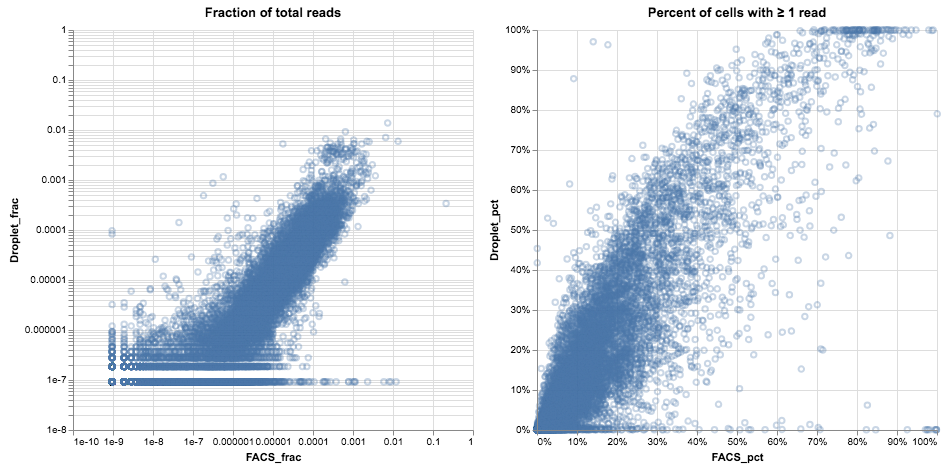
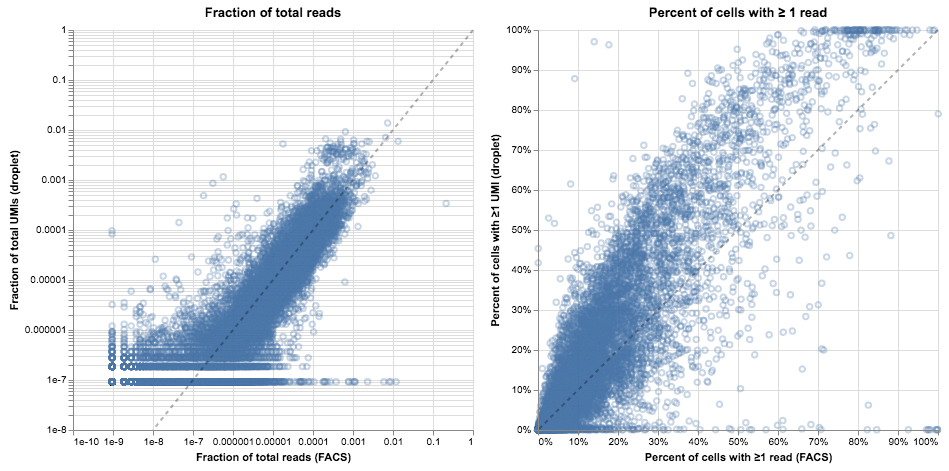
new (final???) revisions. Also got footnotes to look right.

diff --git a/_sass/_reset.scss b/_sass/_reset.scss
@@ -16,32 +16,44 @@ article, aside, canvas, details, embed,
 figure, figcaption, footer, header, hgroup,
 menu, nav, output, ruby, section, summary,
 time, mark, audio, video {
-	margin: 0;
-	padding: 0;
-	border: 0;
-	font-size: 100%;
-	font: inherit;
-	vertical-align: baseline;
+  margin: 0;
+  padding: 0;
+  border: 0;
+  font-size: 100%;
+  font: inherit;
+  vertical-align: baseline;
 }
 // HTML5 display-role reset for older browsers
 article, aside, details, figcaption, figure,
 footer, header, hgroup, menu, nav, section {
-	display: block;
+  display: block;
 }
 body {
-	line-height: 1;
+  line-height: 1;
 }
 ol, ul {
-	list-style: none;
+  list-style: none;
 }
 blockquote, q {
-	quotes: none;
+  quotes: none;
 }
 blockquote:before, blockquote:after,
 q:before, q:after {
-	content: '';
-	content: none;
+  content: '';
+  content: none;
 }
+
+// fix super and subscripts, from barryclark/jekyll-now/issues/933
+sub {
+  font-size: smaller;
+  vertical-align: sub;
+}
+
+sup {
+  font-size: smaller;
+    vertical-align: super;
+}
+
 
 // table formatting so that they show up correctly
 table {
@@ -83,9 +95,10 @@ table tr th :last-child, table tr td :last-child {
   margin-bottom: 0;
 }
 
-
 // Apply a natural box layout model to all elements
 // from: http://www.paulirish.com/2012/box-sizing-border-box-ftw/
 *, *:before, *:after {
   -moz-box-sizing: border-box; -webkit-box-sizing: border-box; box-sizing: border-box;
 }
+
+

diff --git a/_blog/The-Effect-of-PCR-on-scRNAseq.md b/_blog/The-Effect-of-PCR-on-scRNAseq.md
@@ -6,9 +6,9 @@ title: The Effect of PCR on scRNAseq
 date: 2018-10-12
 ---
 
-One interesting facet of the Tabula Muris data is the fact that we have data from the same samples using two different technologies: microfluidic droplet-based 3’-end counting using the 10x genomics platform, and FACS-based full-length transcript analysis with Smart-Seq2. Both platforms have advantages: droplets let us rapidly profile thousands of cells, but Smart-Seq2 tends to recover more genes per cell and can be sequenced to higher depth.
+In the Tabula Muris study, we performed single-cell RNA sequencing on tissues from many mice using two different technologies: microfluidic droplet-based 3’-end counting on the 10x genomics platform, and FACS-based full-length transcript analysis with Smart-Seq2. Both platforms have advantages: droplets let us easily profile thousands of cells while Smart-Seq2 recovers more genes per cell and provides full-length transcripts.
 
-Our dataset provides us with the opportunity to compare the advantages of these technologies on a relatively level playing field. For a more comprehensive discussion of this topic, you can check out the [paper](https://doi.org/10.1038/s41586-018-0590-4). In this post we'll delve a little deeper into one particular question and see what it can teach us about how the data are generated.
+This provides us with an opportunity to compare the views of gene expression provided by these two technologies on cells from the same mice. For a comprehensive discussion of this topic, you can check out the [paper](https://doi.org/10.1038/s41586-018-0590-4). In this post we'll try to get a quantitative understanding of the processes that generate single-cell sequencing data by comparing simulations to the experimental data.
 
 
 ```python
@@ -37,7 +37,7 @@ droplet_metadata = pd.read_csv("../../data/TM_droplet_metadata.csv", index_col=0
 droplet_data = ad.read_h5ad("../../data/TM_droplet_mat.h5ad")
 ```
 
-The broad question is whether these two technologies are giving us the same view of gene expression. It's not obvious how to answer that question, but let's start by looking at the cells from one organ sequenced by both platforms, and compare the gene levels we observe. For the rest of this post we're going to look at the thymus.
+Let's start by looking at the cells from one organ sequenced on both platforms, and compare the gene levels we observe. For the rest of this post we're going to look at the thymus.
 
 
 ```python
@@ -50,7 +50,7 @@ facs_thymus.X = np.asarray(facs_thymus.X.todense())
 droplet_thymus.X = np.asarray(droplet_thymus.X.todense())
 ```
 
-Below we'll plot two different visualizations of these datasets. On the left, we'll plot the relative gene counts of each method&mdash;for each gene, is the observed level similar between the FACS and droplet datasets? On the right, for each gene we'll plot the percent of cells with ≥1 read, reflecting the idea that while expression _level_ might not be consistent, we hope to see the same genes present in a similar fraction of cells in both of these populations.
+Below we plot two different visualizations of gene expression. On the left, we compare the "bulk" expression levels; for each gene, the x-axis represents the fraction of counts mapping to that gene in FACS and the y-axis represents the fraction in droplets. On the right, we compare the percent of cells with ≥1 read, reflecting the idea that while expression _level_ might be noisy due to differences in chemistry, the same genes should be present in a similar fraction of cells in both of these samples.
 
 
 ```python
@@ -63,6 +63,12 @@ thymus_dataframe = pd.DataFrame(
     }
 )
 
+xy_line = (
+    alt.Chart(pd.DataFrame({"x": [1e-8, 1], "y": [1e-8, 1]}))
+    .mark_line(opacity=0.3, color="black", strokeDash=[4])
+    .encode(x="x", y="y")
+)
+
 alt.hconcat(
     alt.Chart(
         thymus_dataframe, title="Fraction of total reads", width=400, height=400
@@ -73,13 +79,15 @@ alt.hconcat(
             "FACS_frac",
             type="quantitative",
             scale=alt.Scale(type="log", domain=(1e-10, 1)),
+            axis=alt.Axis(title="Fraction of total reads (FACS)"),
         ),
         y=alt.Y(
             "Droplet_frac",
             type="quantitative",
             scale=alt.Scale(type="log", domain=(1e-8, 1)),
+            axis=alt.Axis(title="Fraction of total UMIs (droplet)"),
         ),
-    ),
+    ) + xy_line,
     alt.Chart(
         thymus_dataframe, title="Percent of cells with ≥ 1 read", width=400, height=400
     )
@@ -88,16 +96,16 @@ alt.hconcat(
         x=alt.X(
             "FACS_pct",
             type="quantitative",
-            axis=alt.Axis(format="%"),
+            axis=alt.Axis(format="%", title="Percent of cells with ≥1 read (FACS)"),
             scale=alt.Scale(domain=(0, 1)),
         ),
         y=alt.Y(
             "Droplet_pct",
             type="quantitative",
-            axis=alt.Axis(format="%"),
+            axis=alt.Axis(format="%", title="Percent of cells with ≥1 UMI (droplet)"),
             scale=alt.Scale(domain=(0, 1)),
         ),
-    ),
+    ) + xy_line,
 )
 ```
 
@@ -106,7 +114,7 @@ alt.hconcat(
 ![png](/images/The-Effect-of-PCR-on-scRNAseq_files/The-Effect-of-PCR-on-scRNAseq_0.png)
 
 
-It's tempting to stare at these plots and start to draw conclusions about the relative merits of droplet- and FACS-based methods. Indeed, in the [initial draft](https://www.biorxiv.org/content/early/2017/12/20/237446) we devoted some time to these types of plots, but they are difficult to interpret. On the left, it seems like the gene levels are mostly in agreement but there are many exceptions. On the right, the bulk of the genes are slightly above the diagonal, but many genes are on the x axis. That means they were almost never observed in the droplet data but often seen in the FACS data.
+It's tempting to stare at these plots and start to draw conclusions about the relative merits of droplet- and FACS-based methods. Indeed, we did so in the [initial draft](https://www.biorxiv.org/content/early/2017/12/20/237446), but interpretation proved difficult. On the left, it seems like the gene levels are mostly in agreement (spread around the $y = x$ line) but there are many exceptions, with genes present at the 1% level in FACS that are entirely absent in droplets. On the right, the bulk of the genes are slightly above the diagonal (present in a larger fraction of cells in droplets than in FACS), but many genes are on the x-axis. That means they were almost never observed in the droplet data but often seen in the FACS data. Confusingly, in other cell types the majority of genes are _below_ the diagonal, indicating they are more often found in the FACS data.
 
 It seems likely that differences in methodology are confounding our attempt to compare methods. To illustrate that point, we'll switch around the axes for these plots, and for each method we'll plot the per-gene fraction of total reads versus the percent of cells with ≥1 read.
 
@@ -154,11 +162,11 @@ alt.hconcat(
 ![png](/images/The-Effect-of-PCR-on-scRNAseq_files/The-Effect-of-PCR-on-scRNAseq_1.png)
 
 
-The difference between these plots is pretty striking. In the droplet data on the left, the relationship between expression and dropout looks like something we can model: genes that are highly expressed are more likely to be observed in every cell, while low-expression genes are seen less often. This relationship is what we would expect from a Poisson distribution, with the addition of noise due to variation in library depth and expression variation. If we model these sources of variation as a [gamma distribution](https://en.wikipedia.org/wiki/Gamma_distribution) then the resulting model for observed counts is a [negative binomial](http://www.nxn.se/valent/2018/1/30/count-depth-variation-makes-poisson-scrna-seq-data-negative-binomial). Deviations from that model are a sign of heterogeneity in gene expression, which suggests a method for suggesting variable genes for analysis. Tallulah Andrews and Martin Hemberg describe such a method in [their paper](https://www.biorxiv.org/content/early/2018/05/17/065094) on bioR$\chi$iv.
+The difference between these plots is pretty striking. In the droplet data on the left, the relationship between expression and dropout looks like something we can model: genes that are highly expressed are more likely to be observed in every cell, while low-expression genes are seen less often. This relationship is what we would expect from a [Poisson distribution](https://en.wikipedia.org/wiki/Poisson_distribution), with a little additional noise due to variation in library depth and gene expression. If we model these sources of variation as a [gamma distribution](https://en.wikipedia.org/wiki/Gamma_distribution) then the resulting model for observed counts is a [negative binomial](http://www.nxn.se/valent/2018/1/30/count-depth-variation-makes-poisson-scrna-seq-data-negative-binomial). Deviations from that model are a sign of heterogeneity in gene expression&mdash;perhaps indicating a mixture of cell types or cell states. This suggests a method for finding variable genes; Tallulah Andrews and Martin Hemberg describe such a method in [their paper](https://www.biorxiv.org/content/early/2018/05/17/065094) on bioR$\chi$iv.
 
-The second plot is more confusing. The same trend is apparent but the points are much more spread out and cloudier compared to the data from the droplets. We see a faint echo of the droplet curve on the left side of the plot, but most of the points are further to the right. If we assumed a negative binomial for these data we would identify a huge number of genes as variable, but we know this population of cells is relatively homogenous (probably as homogenous as the cells in the droplet data).
+The second plot is more confusing. The same trend is apparent but the points are much more spread out and cloudier compared to the data from droplets. We see a faint echo of the droplet curve on the left side of the plot, but most of the points are further to the right. If we assumed a negative binomial for these data we would identify a huge number of genes as variable, but we know this population of cells is relatively homogenous (probably as homogenous as the cells in the droplet data).
 
-There must be an additional source of noise, and the obvious suspect is the [PCR](https://en.wikipedia.org/wiki/Polymerase_chain_reaction) amplification during library preparation. The droplet data has unique molecular identifiers (UMIs) that allow us to remove this noise, while the FACS data does not, and the result is what we see. One way to test this idea is to model how we think the data are generated and see if we can reproduce these results.
+There must be an additional source of noise, and the obvious suspect is the [PCR](https://en.wikipedia.org/wiki/Polymerase_chain_reaction) amplification during library preparation. The droplet data has unique molecular identifiers (UMIs) that removed this noise, while the FACS data does not, and the result is what we see. One way to test this idea is to model how we think the data are generated and see if we can reproduce these trends.
 
 ## What are we measuring? scRNA-seq as a sampling process
 
@@ -166,22 +174,21 @@ We're going to build a [generative model](https://en.wikipedia.org/wiki/Generati
 
 ![svg](/images/The-Effect-of-PCR-on-scRNAseq_files/scrna_sampling.svg)
 
- 1. Cells are **isolated** into wells or droplets
- 2. They are lysed, individual mRNA molecules are biochemically **captured** and reverse-transcribed to cDNA
-     - in the droplet method, this is where UMIs are introduced
- 3. The cDNA is **PCR amplified, fragmented, and amplified again** as part of library preparation
+ 1. Cells are **isolated** into wells or droplets.
+ 2. They are lysed, and individual mRNA molecules are biochemically **captured** and reverse-transcribed to cDNA. In the droplet method, this is where UMIs are introduced.
+ 3. The cDNA is **PCR amplified, fragmented, and amplified again** as part of library preparation.
  4. The amplified library is **sequenced**, demultiplexed, aligned, etc.
 
 We can think of each of the bolded portions as a sampling step. In step 1, the cells are sampled from a population that contains an unknown amount of diversity, and our collection methods may have different biases at this step. In step 2, individual mRNA molecules are captured with some efficiency that is dependent on the biochemical method and potentially the cell state or even the gene sequence itself. Step 3 can be broken down into many *different* sampling steps, one for each round of PCR, as individual molecules are amplified at different rates of efficiency.
 
-All of these sampling steps are important to think about for experimental design and interpretation. Here we are going to keep steps 1, 2, and 4 constant, by assuming a homogenous cell population, random capture and random sequencing: we will only examine the effect of step 3. Specifically: how does a potentially-biased PCR process affect the final gene count? We'll start by simulating some data.
+All of these sampling steps are important to think about for experimental design and interpretation. Here we are going to keep steps 1, 2, and 4 constant, by assuming a homogenous cell population, unbiased random capture, and unbiased sequencing: we will only examine the effect of step 3. Specifically: how does a potentially-biased PCR process affect the final gene count? We'll start by simulating some data.
 
- 1. We have 20,000 genes and 2,000 cells
- 2. Genes are expressed according to a log-gamma distribution
-     - Formally: $g_i \sim e^{\Gamma(k=2,\ \theta=1)}$ where $k, \theta$ were chosen by eye to mimic realistic data
-     - There isn't a strong basis for this distribution except that log-normal looked to be skewed a bit high
- 3. Every cell has the same expression state
- 4. We'll sample 5,500 UMIs from every cell using a multinomial distribution
+ 1. We have 20,000 genes and 2,000 cells.
+ 2. Genes are expressed according to a log-gamma distribution.
+     - Formally: $g_i \sim e^{\Gamma(k=4,\ \theta=1)}$ where $k, \theta$ were chosen by eye to mimic realistic data.
+     - There isn't a strong basis for this distribution except that log-normal looked to be skewed a bit high.
+ 3. Every cell has the same expression state.
+ 4. We sample 5,500 UMIs from every cell using a multinomial distribution.
      - Technically the [multivariate hypergeometric](https://en.wikipedia.org/wiki/Hypergeometric_distribution#Multivariate_hypergeometric_distribution) is the right distribution here, but it is difficult to implement efficiently and the multinomial has almost identical behavior at this scale.
 
 
@@ -213,14 +220,7 @@ plot_expression_v_percent(cell_gene_umis, title="Basic model")
 
 ![png](/images/The-Effect-of-PCR-on-scRNAseq_files/The-Effect-of-PCR-on-scRNAseq_2.png)
 
-
-This looks promising! When we consider a specific gene, our sampling process is a [binomial distribution](https://en.wikipedia.org/wiki/Binomial_distribution) $X \sim B(n, p)$ with $n$ equal to the number of reads from that cell and $p$ equal to the relative abundance of that gene in the cell. When $n$ is large and $p$ is small, a [Poisson distribution](https://en.wikipedia.org/wiki/Poisson_distribution) is a good approximation for this process, which is why most people refer to scRNA gene counts (assuming no variation between cells) as being [Poisson-distributed](http://www.nxn.se/valent/2018/1/30/count-depth-variation-makes-poisson-scrna-seq-data-negative-binomial). Seeing a particular gene $g$ in a cell is based on the depth of the library and the gene's relative expression, and the probability of seeing $k$ reads is given by:
-
-$$ P_g(k\textrm{ reads}) = \frac{\lambda^k e^{-\lambda}}{k!}\hspace{40pt}\lambda = \frac{[\textrm{expression of }g]}{\textrm{[total expression]}} \times \textrm{[number of reads]} $$
-
-When we are counting the prevalence of missing genes, this simplifies to $ P_g(k=0) = e^{-\lambda}$ and the plot above shows the complement, $ P_g(k>0) = 1 - e^{-\lambda}$
-
-The plot above looks very similar to our droplet data, but it's much cleaner. There are two reasons for that: one is that we simulated identical cells, and the second is that we simulated identical library sizes. We can vary each of these assumptions in turn and see what happens to our data.
+The plot above looks very similar to our droplet data, but it's much cleaner[^1]. There are two reasons for that: one is that we simulated identical cells, and the second is that we simulated identical library sizes. We can vary each of these assumptions in turn and see what happens to our data.
 
 
 ```python
@@ -272,7 +272,7 @@ alt.hconcat(*cs)
 ![png](/images/The-Effect-of-PCR-on-scRNAseq_files/The-Effect-of-PCR-on-scRNAseq_3.png)
 
 
-These plots are useful for gaining an intuition about how noise in our data affects the result. There is a clear difference between these two effects: noise in the size of the library makes the Poisson-derived curve slightly "fuzzier", but it also raises the bottom end of the distribution because the cells with high coverage are able to recover rare genes. Noise in the gene expression lowers the top line and spreads out the distribution, because genes are less evenly distributed and so they are found in fewer cells than would be expected based on average expression. In reality we tend to see a combination of these two effects. For this post we'll just eyeball some parameters that look like the droplet data.
+These plots are useful for gaining an intuition about how noise in the generative process affects the data. There is a clear difference between these two effects: noise in the size of the library makes the Poisson-derived curve slightly "fuzzier", but it also raises the bottom end of the distribution because the cells with high coverage are able to recover rare genes. Noise in the gene expression lowers the top line and spreads out the distribution, because genes are less evenly distributed and so they are found in fewer cells than would be expected based on average expression. In reality we tend to see a combination of these two effects. For this post we'll just eyeball some parameters that look like the droplet data.
 
 
 ```python
@@ -302,18 +302,16 @@ plot_expression_v_percent(noisy_umis, title=f"Library, Expression Noise: 1.5")
 ![png](/images/The-Effect-of-PCR-on-scRNAseq_files/The-Effect-of-PCR-on-scRNAseq_4.png)
 
 
-This plot looks okay. It doesn't look exactly like the thymus data, but our model is still pretty simple in comparison to real tissue. In particular, we are explicitly simulating a single population, while the real data contains at least three cell types and possibly more that we don't have the resolution to identify.
+This plot doesn't look exactly like the thymus data, but our model is still pretty simple in comparison to real tissue. In particular, we are explicitly simulating a single population, while the real data contains at least three cell types and possibly more that we don't have the resolution to identify.
 
 ### Simulating PCR
 
-Our hypothesis is that PCR amplification bias can explain the different between the droplet and FACS plots we saw earlier. PCR amplifies the observed level of each gene, throwing off our estimation of the expected dropout rate. Furthermore, each gene goes through PCR with a different level of efficiency, which adds noise to the measured gene counts.
+Our hypothesis is that PCR amplification bias can explain the difference between the droplet and FACS plots we saw earlier. PCR amplifies the observed level of each gene, throwing off our estimation of the expected dropout rate. Furthermore, each gene goes through PCR with a different level of efficiency, which adds noise to the measured gene counts.
 
-Let's build a model for this process. We can use a [beta distribution](https://en.wikipedia.org/wiki/Beta_distribution) to generate different levels of PCR efficiency on a per-gene basis. Then we represent the PCR amplication as a series of probabilistic doublings, with each gene increasing in abundance according to the number of existing copies and its PCR efficiency rate. If $PCR_{i}(\ j\ )$ is the number of reads for gene $i$ after PCR round $j$, and gene $i$ has a PCR efficency $b_i \sim \beta$, then
+Let's build a model for this process. We can use a [beta distribution](https://en.wikipedia.org/wiki/Beta_distribution) to generate different levels of PCR efficiency for each gene. Then we represent the PCR amplification as a series of probabilistic doublings, with each gene increasing in abundance according to the number of existing copies and its PCR efficiency rate. If $PCR_{i}(j)$ is the number of reads for gene $i$ after PCR round $j$, and gene $i$ has a PCR efficency $b_i \sim \beta$, then
  
-$$ PCR_{i}(\ j+1\ ) = PCR_{i}(\ j\ ) + \mathrm{Binom}(PCR_{i}(\ j\ ), b_i)$$
 
-That is: in each round of PCR, each of the existing reads is copied with a probability that is specific to the gene it came from.
-
+$$ PCR_{i}(j+1) = PCR_{i}(j) + \mathrm{Binom}(PCR_{i}(j), b_i).$$
 
 ```python
 # PCR noise model: every fragment has an affinity for PCR, and every round we do a ~binomial doubling
@@ -355,7 +353,7 @@ alt.hconcat(
 
 This is getting closer to the FACS plot above&mdash;using a distribution of PCR efficiencies causes the read data to spread across a few orders of magnitude. As we go through 13 rounds of PCR the high efficiency genes shift to the right while the lower ones lag behind. The right edge of the curve is fairly sharp, as nothing can replicate more efficiently than once per round.
 
-There is one piece missing from this plot, however, which is the "shadow" of the UMI curve that we could see on the left side. Our intuition from the model so far is that these points are not being amplified very much at all. One way to get more low-efficiency genes would be to use a wider beta distribution (with more density near zero), but it actually looks like there is a small subpopulation with very low efficiency that is separate from the rest. We can model this with a mixture of two beta distributions, although it's unclear why that should be the case. Those of you with more experience troubleshooting PCR can tell us if this seems like a reasonable distribution of efficiency across random DNA sequences.
+There is one piece missing from this plot, however, which is the "shadow" of the UMI curve that we could see on the left side. Our intuition from the model so far is that these points are not being amplified very much at all. One way to get more low-efficiency genes would be to use a wider beta distribution (with more density near zero), but it actually looks like there is a small subpopulation with very low efficiency that is separate from the rest. We can model this with a mixture of two beta distributions, although it's unclear why that should be the case. Those of you with more experience troubleshooting PCR can tell us if this seems like a reasonable distribution of efficiency across different DNA sequences.
 
 
 ```python
@@ -381,7 +379,7 @@ alt.hconcat(
 
 This looks pretty good, but when we compare it to our data it's still not quite right. The bimodal distribution gave us a subpopulation of points on the left side of the plot, but it didn't give us the relationship between expression and PCR efficiency that we can see in the FACS data. We could reproduce that relationship in a hacky way, by setting a random subset of low-expression genes to have low PCR efficiency. But that wouldn't be very satisfying&mdash;there's no reason that the PCR reaction should care about the expression level of the genes.
 
-However, there's another factor that we haven't considered yet. When we do scRNA-seq we aren't sequencing complete gene transcripts, we're sequencing _fragments_. The number of different fragments we see from a gene will depend on its expression level, because a highly-expressed gene will be sampled more often and so we are more likely to see multiple different fragments. A gene with low expression could potentially be represented by a single fragment, and if that fragment has poor PCR efficiency, it would remain on the UMI curve, leaving us the "shadow" that we expected. We can try this out by changing our model to work on gene fragments rather than genes. Most of it is the same, but in the beginning we add a step of generating a random number of fragments for each gene (Poisson distributed) and later we assign each _fragment_ its own PCR efficiency. We'll show the results of both the UMI distribution and the PCR-amplified version.
+However, there's another factor that we haven't considered yet. When we do scRNA-seq we aren't sequencing complete gene transcripts, we're sequencing _fragments_. The number of distinct fragments we see from a gene will depend on its expression level, because a highly-expressed gene will be sampled more often. A single fragment might be all that we capture from a gene with low expression. If that fragment has poor PCR efficiency, that gene would remain on the UMI curve, part of the "shadow" that we expect. We can try this out by changing our model to work on gene fragments rather than genes. We add a step at the beginning, generating a random number of fragments for each gene (Poisson distributed) and assigning each _fragment_ its own PCR efficiency. We'll show the results of both the UMI distribution and the PCR-amplified version.
 
 
 ```python
@@ -433,7 +431,7 @@ alt.hconcat(
 ![png](/images/The-Effect-of-PCR-on-scRNAseq_files/The-Effect-of-PCR-on-scRNAseq_7.png)
 
 
-Now that's more like it! We have most of the characteristics of the plot we generated from real data, up to some biological noise and parameter tweaks (in particular I'm still unsatistified with the distribution of gene expression levels). The addition of gene fragments didn't change how our model behaves on UMI data, but it allowed us to reproduce the "shadow" of the UMI curve for low-expression genes.
+Now that's more like it! We have most of the characteristics of the plot we generated from real data, up to some biological noise and parameter tweaks. The addition of gene fragments didn't change how our model behaves on UMI data, but it allowed us to reproduce the "shadow" of the UMI curve for low-expression genes.
 
 To close the loop on this post, we'll look at what our droplet data would be if we didn't collapse reads via the UMIs. To do this, we needed to parse the BAM file that is output by CellRanger. For those following along at home, be warned that it takes a _long_ time to read through the entire BAM file.
 
@@ -442,7 +440,7 @@ To close the loop on this post, we'll look at what our droplet data would be if 
 # we'll need the pysam library to read the bam file
 import pysam
 
-# # dictionaries that let us index into the read matrix by barcode and gene
+# dictionaries that let us index into the read matrix by barcode and gene
 bc_i = {
     bc: i
     for i, bc in enumerate(
@@ -572,17 +570,17 @@ print("\t".join(f"{c:>19}" for c in (n_genes, low_in_facs, low_in_droplets,
 |   23433 |        3036 |             629 |          158 |            2.01e-17 |
 
 
-While there appears to be significant overlap between the two sets, I wouldn't say it's a slam dunk based on these samples alone. Analysis of more of our data might help identify a set of genes that are consistently poorly-amplified.
+While there appears to be significant overlap between the two sets, I wouldn't say that we have identified a consistent set of under-amplified genes. Analysis of more tissues and cell types might clarify matters.
 
 ### Conclusions
 
 In the end we've built a relatively simple model of PCR and sampling, and it produces data that look qualitatively like the data we really observed. One open question is whether the distribution of PCR efficiencies is realistic. A bimodal distribution _might_ reflect that some proportion of cDNA sequences form dimers or otherwise impede PCR, but a unimodal distribution is more intuitive. It's possible that we're missing yet another mechanism in this process that would naturally lead to the behavior we're seeing.
 
-While this blog post is mostly about a particularly confusing plot and trying to understand its behavior, it was not a purely theoretical exercise. There are a few ideas that arise from this model of our data.
+While this blog post is mostly about trying to understand a particularly confusing plot, it was not a purely theoretical exercise. There are a few ideas that arise from this model of our data.
 
- 1. Looking at these plots and how they are affected by noise has emphasized the importance of UMIs for getting a good estimate of gene expression. By having a strong statistical model for how the data are generated, we can more easily identify genes with heterogeneous expression within a cluster. This level of detail is much more difficult to resolve when read counts are affected by amplification noise.
- 2. We spent a fair amount of time trying to recreate the shadow on the left side of the FACS plot, but we haven't discussed the implications of that shadow. According to our model, those are genes that have very low PCR efficiency and may not have been amplified at all during the second PCR step. Nevertheless, we are recovering those reads from the sequencer at a rate consistent with their expression. This suggests that we might be able to optimize our protocols by doing fewer rounds of library amplification. That would allow us to improve our sequencing throughput, either by sequencing more cells at once or by sequencing the same number of cells much more deeply.
- 3. When we are confident that we have a homogenous cluster of cells, the plots above show us a natural method of imputing gene expression values when they are missing, even in the face of PCR noise. The proportion of cells with ≥1 read is a good predictor of the number of UMIs in each cell, and this holds true even when the reads themselves are subjected to a biased PCR process. The points in the second plot have shifted to the right but not up or down, so it's possible the effect of amplification can be removed by fitting a curve to the top left of the graph. However, when we are not confident of a homogenous population this becomes much riskier, and it is harder to have that confidence in the face of noisy reads.
+ 1. **UMIs are really useful.** Looking at these plots and how they are affected by noise has emphasized the importance of UMIs for getting a good estimate of gene expression. By having a strong statistical model for how the data are generated, we can more easily identify genes with heterogeneous expression within a cluster. This level of detail is much more difficult to resolve when read counts are affected by amplification noise.
+ 2. **Too much PCR is likely harmful.** We spent a fair amount of time trying to recreate the shadow on the left side of the FACS plot, but we haven't discussed the implications of that shadow. According to our model, those are genes that have very low PCR efficiency and may not have been amplified at all during the second PCR step. Nevertheless, we are recovering those reads from the sequencer at a rate consistent with their expression. This suggests that we might be able to optimize our protocols by doing fewer rounds of library amplification. That would allow us to improve our sequencing throughput, either by sequencing more cells at once or by sequencing the same number of cells much more deeply.
+ 3. **We should be able to fill in our matrix.** When we are confident that we have a homogenous cluster of cells, the plots above show us a natural method of imputing gene expression values when they are missing, even in the face of PCR noise. The proportion of cells with ≥1 read is a good predictor of the number of UMIs in each cell, and this holds true even when the reads themselves are subjected to a biased PCR process. The points in the second plot have shifted to the right but not up or down, so it's possible the effect of amplification can be removed by fitting a curve to the top left of the graph. However, when we are not confident of a homogenous population this becomes much riskier, and it is harder to have that confidence in the face of noisy reads.
 
 ### Related Work
 
@@ -591,3 +589,13 @@ While this blog post is mostly about a particularly confusing plot and trying to
  * [Kebschull and Zador](https://www.ncbi.nlm.nih.gov/pmc/articles/PMC4666380/) is a deep dive into the many factors that can cause noise in PCR amplification.
  * [Grün et al.](https://www.nature.com/articles/nmeth.2930) and [Islam et al.](https://www.nature.com/articles/nmeth.2772) are two of many relevant papers about the noise in scRNA-seq data and finding ways to correct for it.
 
+---
+
+[^1]:
+
+    When we consider a specific gene, our sampling process is a [binomial distribution](https://en.wikipedia.org/wiki/Binomial_distribution) $X \sim B(n, p)$ with $n$ equal to the number of reads from that cell and $p$ equal to the relative abundance of that gene in the cell. When $n$ is large and $p$ is small, a [Poisson distribution](https://en.wikipedia.org/wiki/Poisson_distribution) is a good approximation for this process, which is why most people refer to scRNA gene counts (assuming no variation between cells) as being [Poisson-distributed](http://www.nxn.se/valent/2018/1/30/count-depth-variation-makes-poisson-scrna-seq-data-negative-binomial). Seeing a particular gene $g$ in a cell is based on the depth of the library and the gene's relative expression, and the probability of seeing $k$ reads is given by:
+
+
+    $$ P_g(k\textrm{ reads}) = \frac{\lambda^k e^{-\lambda}}{k!}\hspace{30pt}\lambda = \frac{[\textrm{expression of }g]}{\textrm{[total expression]}} \times \textrm{[number of reads]} $$
+
+    When we are counting the prevalence of missing genes, this simplifies to $ P_g(k=0) = e^{-\lambda}$. The plot above is the complement, $ P_g(k>0) = 1 - e^{-\lambda}$.
